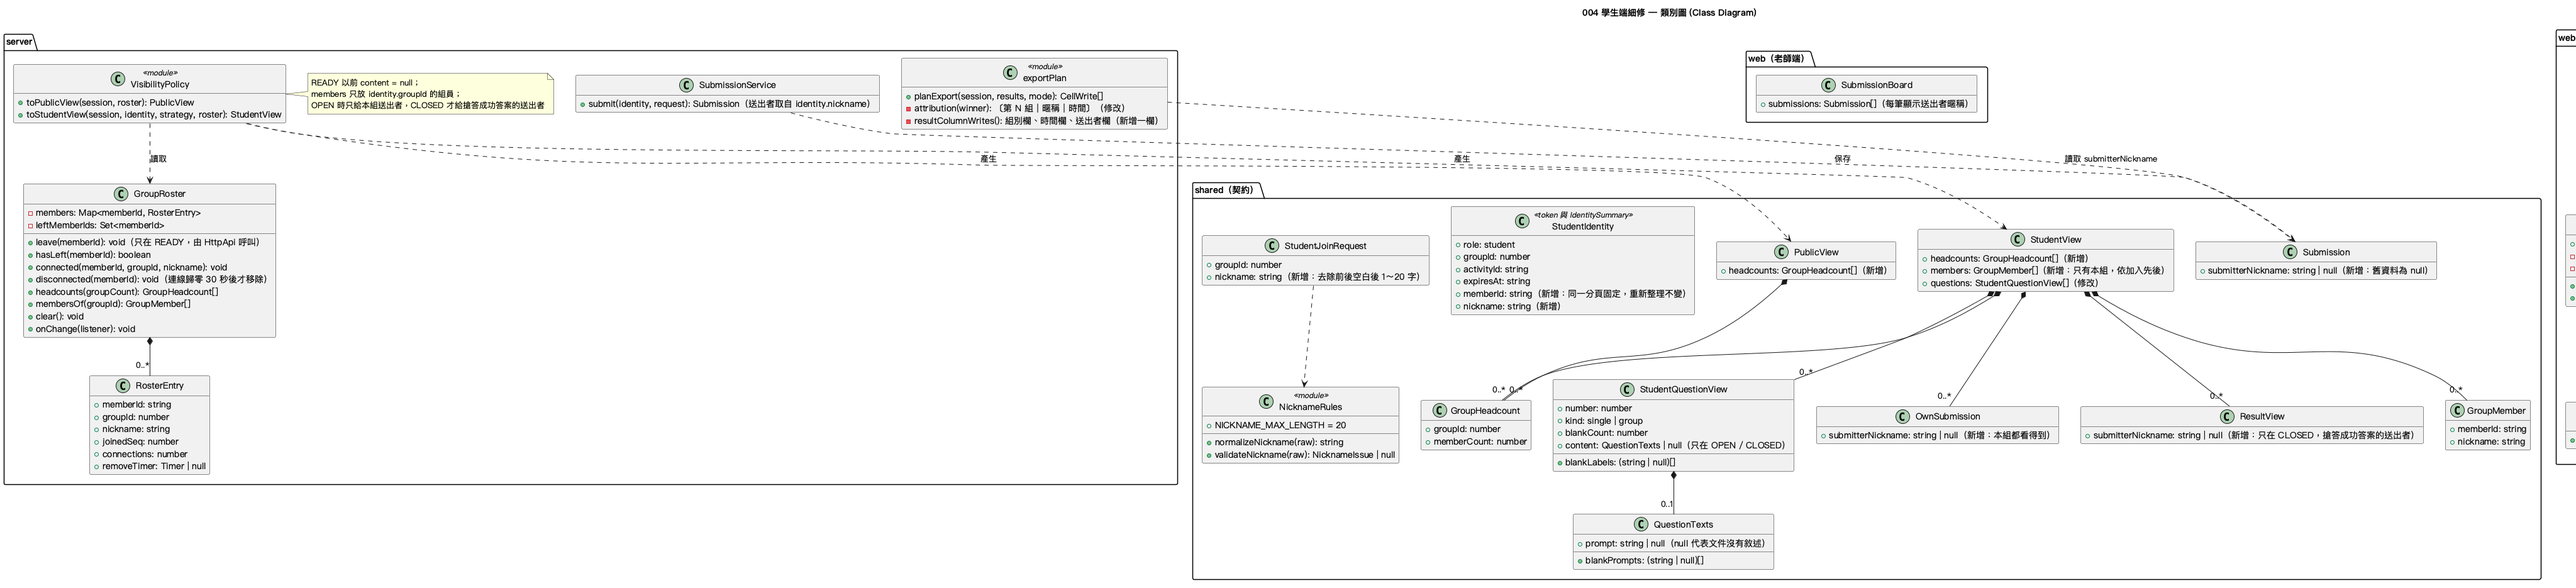
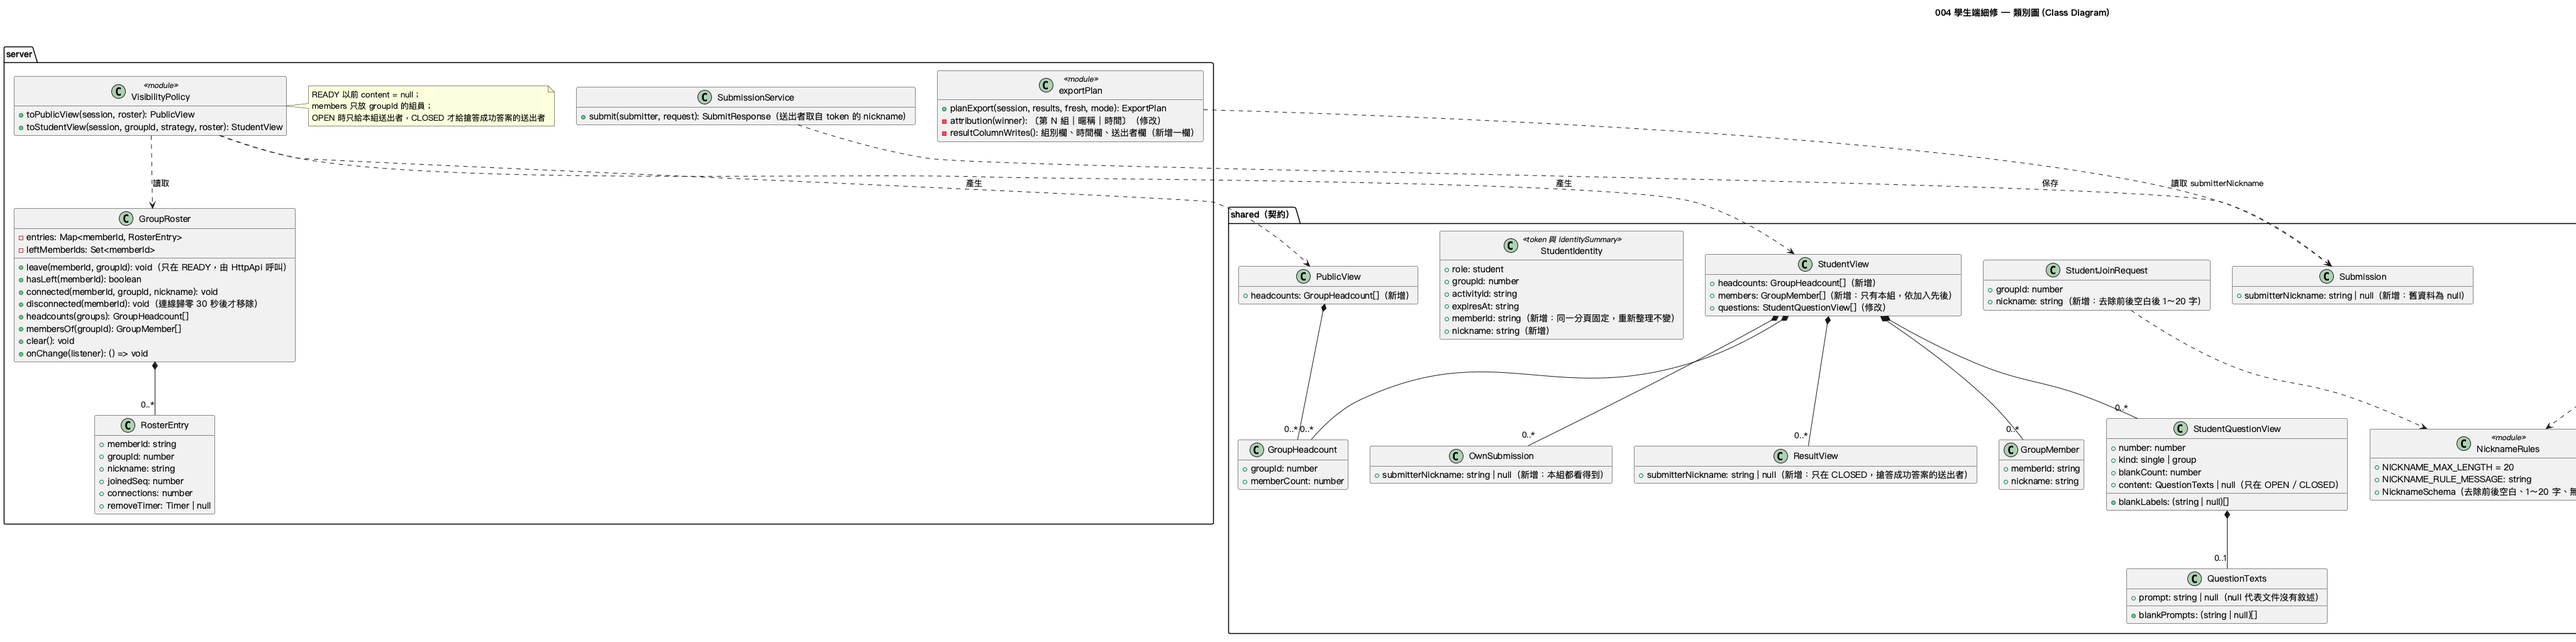
docs(004): verify diagrams, add manual checklist, fix restart version
Polish: README covers nicknames, headcounts, prompts and submitters; the
004 diagrams match the code (PNG regenerated); diagram-verification.md and
the manual verification checklist are added.

Also fix the student and teacher pages ignoring state after a server
restart: the server version restarts at 0, so the client now resets its
version on every (re)connect, since each connection begins with a full
state. The submitted badge moves below the question when prompts show.

diff --git a/apps/web/src/pages/student/QuestionAnswerForm.tsx b/apps/web/src/pages/student/QuestionAnswerForm.tsx
@@ -165,11 +165,15 @@ export function QuestionAnswerForm({
     // 同組成員都看得到送出者（004 FR-024）；本分頁剛送出、推播尚未到達時以自己的暱稱顯示
     const submitter = submitted === null ? identity.nickname : submitted.submitterNickname;
     const byIndex = new Map(answers.map((a) => [a.blankIndex, a.text]));
+    const badge = (
+      <p className="inline-block rounded-full bg-green-100 px-3 py-1 text-sm font-semibold text-green-800">
+        {submitter === null ? '已送出' : `已送出（${submitter}）`}
+      </p>
+    );
     return (
       <div className="space-y-2">
-        <p className="inline-block rounded-full bg-green-100 px-3 py-1 text-sm font-semibold text-green-800">
-          {submitter === null ? '已送出' : `已送出（${submitter}）`}
-        </p>
+        {/* 有題目敘述時題號在 QuestionContent 內，標籤放在題目與答案之後；否則沿用 003 放在最上方 */}
+        {showLabels && badge}
         <WithContent
           question={question}
           renderBlank={(index) => {
@@ -184,6 +188,7 @@ export function QuestionAnswerForm({
             );
           }}
         />
+        {!showLabels && badge}
         {message !== null && <p className="text-sm text-slate-600">{message}</p>}
       </div>
     );

diff --git a/apps/web/tests/useSessionState.test.tsx b/apps/web/tests/useSessionState.test.tsx
@@ -63,3 +63,25 @@ describe('useSessionState 斷線重連（003 FR-010、US1 情境 4）', () => {
     expect(socket.connectCalls).toBe(0);
   });
 });
+
+describe('useSessionState 版本（004 FR-013）', () => {
+  it('伺服器重新啟動後 version 從 0 重新計算，重新連線後的狀態仍會套用', () => {
+    const { result } = renderHook(() => useSessionState('token-2', vi.fn()));
+    const socket = currentSocket();
+    socket.serverConnect();
+    socket.sendState(studentView({ status: 'OPEN' }), 5);
+    socket.serverDisconnect('io server disconnect');
+    socket.serverConnect();
+    socket.sendState(studentView({ status: 'CLOSED', results: [] }), 0);
+    expect(result.current.view?.status).toBe('CLOSED');
+  });
+
+  it('同一條連線上比目前更舊的版本仍被忽略', () => {
+    const { result } = renderHook(() => useSessionState('token-2', vi.fn()));
+    const socket = currentSocket();
+    socket.serverConnect();
+    socket.sendState(studentView({ status: 'OPEN' }), 5);
+    socket.sendState(studentView({ status: 'READY' }), 4);
+    expect(result.current.view?.status).toBe('OPEN');
+  });
+});

diff --git a/apps/web/src/hooks/useSessionState.ts b/apps/web/src/hooks/useSessionState.ts
@@ -33,6 +33,9 @@ export function useSessionState(
     // 這條連線是否已不再使用：元件卸載、或活動換新（之後由新的身分建立新連線）
     let retired = false;
     socket.on('connect', () => {
+      // 伺服器每次接受連線都會先送一份完整狀態；伺服器重新啟動後 version 從 0 重新計算，
+      // 因此每次（重新）連線都重設版本，避免重啟後的狀態被當成舊版本而忽略（004 FR-013）
+      versionRef.current = -1;
       setState((s) => ({ ...s, connected: true }));
     });
     socket.on('disconnect', (reason) => {

diff --git a/specs/004-student-side-refinements/diagram-verification.md b/specs/004-student-side-refinements/diagram-verification.md
@@ -1,0 +1,64 @@
+# 圖表一致性驗證（constitution 原則 VI）
+
+**Feature**: `004-student-side-refinements` | **Date**: 2026-11-25 | **Task**: T051
+
+依 [plan.md](./plan.md)「圖表對應」逐一核對三張 004 圖表的元件、類別、欄位、方法與互動順序是否都存在於原始碼且
+名稱一致。
+
+## 實作過程中更新的圖表
+
+| 圖表 | 更新內容 | 原因 |
+|------|----------|------|
+| 類別圖 | `NicknameRules` 改為 `NICKNAME_MAX_LENGTH`、`NICKNAME_RULE_MESSAGE`、`NicknameSchema` | 規則以單一 Zod schema 表達（去除前後空白＋驗證），前後端共用，不另外拆成兩個函式（原則 V） |
+| 類別圖 | `GroupRoster`：欄位名 `entries`；`leave(memberId, groupId)`；`headcounts(groups)`；`onChange` 回傳取消訂閱函式 | 組員已在緩衝到期後被移除時仍要能記為已離開並推播，因此帶入 token 的組別；人數依匯入的組別清單產生 |
+| 類別圖 | `VisibilityPolicy.toStudentView(session, groupId, strategy, roster)` | 沿用 003 以組別產生學生檢視，名冊另外傳入 |
+| 類別圖 | `SubmissionService.submit(submitter, request): SubmitResponse` | 送出者為 token 解析出的組別、memberId 與暱稱；回應格式沿用 001 |
+| 類別圖 | `planExport(session, results, fresh, mode): ExportPlan` | 沿用 002 的簽章，只加送出者欄與附註行暱稱 |
+| 類別圖 | `StudentPage` 加 `editingNickname`、`leaveError`；`NicknamePanel` 改為 `value`、`error`、`onCancel?`（移除 `shuffle()`）；`randomNickname(exclude?)`；`QuestionContent` 加 `blankCount`、`titleAs?`、`hideTitle?`；新增 `StudentResultBoard ..> QuestionContent` | 「換一個」直接在元件內呼叫 `randomNickname`；修改暱稱可取消；結果畫面也共用題目版面 |
+| 類別圖、組件圖 | `NicknameStore` 由 `StudentPage` 使用（不是 `NicknamePanel`） | 暱稱頁只回傳確認的暱稱，保存與讀取由頁面負責 |
+| 組件圖 | `randomNickname` 標示「faker 英文語系」；暱稱規則改為 `NicknameSchema` | analyze 後改用持續維護的 `@faker-js/faker`（research R1） |
+| 時序圖 | 加入組別時，名冊推播先送給其他分頁，自己的完整 StudentView 最後送出；`leave(memberId, groupId)`；暱稱驗證改為 `NicknameSchema` | 連線的分頁先加入名冊、再進組別 room，只收到一份包含自己的完整狀態，避免重複推播 |
+
+更新後已執行 `plantuml "./diagrams/004-*.puml"` 重新產生 PNG。
+
+## 元件與類別對照
+
+| 圖表元素 | 圖表 | 原始碼位置 | 一致 | 說明 |
+|----------|------|------------|------|------|
+| `StudentJoinRequest`（`groupId`、`nickname`） | 類別圖、組件圖、時序圖 | `packages/shared/src/api.ts` | ✔ | strict；暱稱以 `NicknameSchema` 正規化 |
+| `StudentIdentity`（`memberId`、`nickname`） | 類別圖、時序圖 | `packages/shared/src/api.ts`（`IdentitySummary`）、`apps/server/src/auth/tokens.ts`（`TabIdentitySchema`） | ✔ | 缺新欄位的舊 token 驗證失敗 |
+| `GroupHeadcount`、`GroupMember`、`QuestionTexts`、`StudentQuestionView` | 類別圖、組件圖 | `packages/shared/src/views.ts` | ✔ | `blankPrompts` 長度以 `refine` 檢查 |
+| `Submission`／`OwnSubmission`／`ResultView`.`submitterNickname` | 類別圖、組件圖 | `packages/shared/src/{domain,views}.ts` | ✔ | `Submission` 預設 `null`（舊資料） |
+| `PublicView.headcounts`、`StudentView.{headcounts, members, questions}` | 類別圖 | `packages/shared/src/views.ts` | ✔ | |
+| `NicknameRules` | 類別圖、組件圖 | `packages/shared/src/nickname.ts` | ✔ | |
+| `GroupRoster`、`RosterEntry` | 類別圖、組件圖、時序圖 | `apps/server/src/domain/roster/groupRoster.ts` | ✔ | 計時器以建構參數注入；`hasLeft`、`clear`、`membersOf` 同名 |
+| `VisibilityPolicy`（`toPublicView`、`toStudentView`） | 類別圖、組件圖、時序圖 | `apps/server/src/domain/visibility/visibilityPolicy.ts` | ✔ | `content` 只在 OPEN／CLOSED |
+| `SubmissionService.submit` | 類別圖、組件圖、時序圖 | `apps/server/src/domain/submission/submissionService.ts` | ✔ | |
+| `exportPlan`（`attribution`、`resultColumnWrites`） | 類別圖、組件圖 | `apps/server/src/domain/export/exportPlan.ts`、`domain/guidedNotes/parser.ts` | ✔ | 表頭「搶答送出者」 |
+| `HttpApi`（加入、`POST /api/auth/student/leave`） | 組件圖、時序圖 | `apps/server/src/transport/http/routes/authRoutes.ts` | ✔ | 非 READY 回 409 `LEAVE_NOT_ALLOWED` |
+| `RealtimeGateway`（連線／斷線通知名冊、名冊推播、reset 清空） | 組件圖、時序圖 | `apps/server/src/transport/realtime/realtimeGateway.ts` | ✔ | 已離開組員的連線由伺服器中斷 |
+| `AuthService`／tokens（memberId、暱稱、已離開失效） | 時序圖 | `apps/server/src/auth/{authService,tokens}.ts` | ✔ | `isMemberLeft` 由 `app.ts` 注入 |
+| `StudentPage` | 類別圖、組件圖、時序圖 | `apps/web/src/pages/student/StudentPage.tsx` | ✔ | 由 `App.tsx` 延遲載入（research R1） |
+| `NicknamePanel`、`randomNickname`、`NicknameStore` | 類別圖、組件圖、時序圖 | `apps/web/src/pages/student/NicknamePanel.tsx`、`apps/web/src/student/{randomNickname,nicknameStore}.ts` | ✔ | |
+| `JoinGroupPanel`（`headcounts`、`nickname`、`onEditNickname`） | 類別圖、組件圖 | `apps/web/src/pages/student/JoinGroupPanel.tsx` | ✔ | |
+| `GroupMemberList` | 類別圖、組件圖 | `apps/web/src/pages/student/GroupMemberList.tsx` | ✔ | |
+| `PhaseBanner`（暱稱） | 組件圖 | `apps/web/src/pages/student/PhaseBanner.tsx` | ✔ | |
+| `AnswerSheet`／`QuestionAnswerForm`、`StudentResultBoard` | 類別圖、組件圖 | `apps/web/src/pages/student/{AnswerSheet,QuestionAnswerForm,StudentResultBoard}.tsx` | ✔ | 有敘述時以 `QuestionContent` 呈現 |
+| `QuestionContent` | 類別圖、組件圖、時序圖 | `apps/web/src/components/QuestionContent.tsx`（`QuestionPreview.tsx` 改用） | ✔ | |
+| `useStudentAuth`（`join(groupId, nickname)`、`leave(): Promise<void>`） | 類別圖、組件圖 | `apps/web/src/hooks/useStudentAuth.ts` | ✔ | |
+| `SubmissionBoard`（送出者） | 類別圖、組件圖 | `apps/web/src/pages/teacher/SubmissionBoard.tsx` | ✔ | |
+| `QuizSessionService`、`LocalSessionRepository`、`useSessionState`（灰色） | 組件圖 | 沿用，未改動 | ✔ | |
+
+## 互動順序（時序圖）
+
+| 段落 | 原始碼 | 一致 |
+|------|--------|------|
+| 取得暱稱：`load()` → 預填隨機名字 → 驗證 → `save()` | `StudentPage.tsx`、`NicknamePanel.tsx` | ✔ |
+| 加入組別：加入 API → 以 token 重連 → `connected()` → 推播其他分頁 → 送出自己的完整狀態 | `authRoutes.ts`、`realtimeGateway.ts` | ✔ |
+| 重新整理與斷線：`disconnected()` 開始緩衝、重連 `connected()` 取消移除 | `groupRoster.ts`、`realtimeGateway.ts` | ✔ |
+| 開啟搶答：學生檢視含 `content`，公開檢視不含 | `visibilityPolicy.ts` | ✔ |
+| 送出答案：送出者取自 token，同組與老師即時看到 | `submissionService.ts`、`submissionRoutes.ts`、`realtimeGateway.ts` | ✔ |
+| 離開組別：離開 API → `leave()` → 204 → 推播 → 前端清除身分 | `authRoutes.ts`、`useStudentAuth.ts` | ✔ |
+| 新的活動：`clear()`、`session:reset`、暱稱保留 | `realtimeGateway.ts`、`useStudentAuth.ts` | ✔ |
+
+結論：三張 004 圖表與原始碼一致。

diff --git a/specs/004-student-side-refinements/checklists/manual-verification.md b/specs/004-student-side-refinements/checklists/manual-verification.md
@@ -1,0 +1,40 @@
+# 人工驗證清單：學生端細修（暱稱、組別人數與題目敘述）
+
+**Feature**: `004-student-side-refinements` | **Task**: T054 | **對應**：[quickstart.md §4](../quickstart.md)
+
+## 使用方式
+
+- 依序操作，每完成並確認一步就勾起來（可自己勾，或請 Claude 代為勾選）。
+- 不需要記錄截圖、執行日期或執行者；有步驟不通過時，在該步下方補一行說明即可。
+- 需求對應見 quickstart.md §4。
+
+## 驗證步驟
+
+準備：伺服器啟動時會還原資料夾裡上一次的活動，所以要用一個新的暫存資料夾啟動，才會是「老師尚未匯入」：`DATA_DIR=<新資料夾的路徑> npm start`（資料夾不存在會自動建立；不要用專案的 `data/`）。整份驗證都用同一個資料夾；開老師分頁 T（登入）；學生分頁 A、B、C、D 都用「開新分頁」開啟（不要用「複製分頁」）。
+
+- [ ] 1. 分頁 A 從首頁按「學生端」 → 顯示暱稱頁，輸入欄已有一個英文短名字
+- [ ] 2. 分頁 A 連按「換一個」數次 → 每次都換成不同的英文名字
+- [ ] 3. 分頁 A 把暱稱清空後按確認 → 不前進，顯示暱稱規則；輸入 21 個字也一樣
+- [ ] 4. 分頁 A 改成「小明」並確認 → 進入選組畫面，顯示「暱稱：小明」與「老師尚未匯入題目，請稍候」
+- [ ] 5. 分頁 A 重新整理 → 暱稱仍是「小明」，不需重新輸入
+- [ ] 6. 分頁 B 直接打開 `/student` 網址 → 也先顯示暱稱頁；以預設名字確認
+- [ ] 7. 分頁 T 匯入「題組範例」副本（3 組） → 分頁 A、B 不需重新整理就出現三個組別，每組「已加入：0 人」
+- [ ] 8. 分頁 A 選第 1 組 → 分頁 B 的第 1 組在 1 秒內變成「已加入：1 人」；分頁 A 顯示「本組成員（1 人）」與「小明（你）」
+- [ ] 9. 分頁 B 選第 1 組；分頁 C 以暱稱「小明」加入第 1 組 → 三個分頁的成員名單都有 3 人，兩個「小明」都列出
+- [ ] 10. 分頁 D 確認暱稱後停在選組畫面 → 第 1 組「已加入：3 人」，看不到任何成員名字
+- [ ] 11. 分頁 A 連續重新整理 3 次 → 其他分頁的人數一直是 3，沒有短暫變少或變多
+- [ ] 12. 分頁 C 在組內時畫面沒有「修改暱稱」；分頁 C 按「離開組別」 → 第 1 組在 1 秒內變成 2 人；分頁 C 回到選組畫面，暱稱保留，按「修改暱稱」改成「Leo」後加入第 2 組
+- [ ] 13. 關閉分頁 B → 30 秒內第 1 組人數與名冊移除分頁 B 的暱稱
+- [ ] 14. 「待開始」時分頁 A 的題目只有題號與子題標記，沒有題目敘述
+- [ ] 15. 分頁 T 開啟搶答 → 分頁 A、C 的每一題都顯示題目敘述，題組每個子題旁有子題敘述與輸入欄；文字與分頁 T 的題目預覽相同；分頁 D（未選組）看不到敘述
+- [ ] 16. 分頁 A 送出第 1 題 → 同組其他分頁在 1 秒內顯示第 1 題「已送出（小明）」；分頁 C（第 2 組）看不到；分頁 T 的送出列表顯示「第 1 組・小明」
+- [ ] 17. 分頁 C 也送出第 1 題 → 分頁 T 的送出列表顯示「第 2 組・Leo」；分頁 A 看不到 Leo
+- [ ] 18. 搶答進行中，分頁 A、C 都沒有「離開組別」
+- [ ] 19. 分頁 T 結束搶答 → 所有學生分頁的結果都顯示題目敘述；第 1 題搶答成功答案旁顯示「第 1 組・小明」；分頁 C 的第 1 題同時顯示「本組（Leo）」與「第 1 組・小明」；成員名單仍顯示
+- [ ] 20. 分頁 T 以「答案＋格內附註行」匯出 → 文件第 1 題的附註行為「〔第 1 組｜小明｜時間〕」
+- [ ] 21. 分頁 T 以「答案＋組別時間欄」匯出 → 表頭多一欄「搶答送出者」，第 1 題該欄為「小明」；再匯出一次內容相同、沒有多出新欄
+- [ ] 22. 以「單題範例」副本重複步驟 7～21 的主要流程（匯入、加入、作答、結束、匯出） → 結果一致
+- [ ] 23. 關閉伺服器（Ctrl+C）後用同一個 `DATA_DIR` 再 `npm start`，不重新整理任何分頁 → 學生分頁自動重連，成員名單與人數在幾秒內恢復，暱稱不需重新輸入
+- [ ] 24. 分頁 T 重新匯入（確認放棄結果） → 所有學生分頁回到選組畫面並說明原因，暱稱保留，各組「已加入：0 人」
+- [ ] 25. 分頁 T 開 `/student` → 顯示老師身分提示，沒有暱稱頁與作答功能
+- [ ] 26. 依 [003 manual-verification.md](../../003-student-quiz-participation/checklists/manual-verification.md) 重跑與本次改動相關的步驟（作答、送出、結果），全部通過

diff --git a/README.md b/README.md
@@ -11,7 +11,9 @@ npm start
 ```
 
 開啟 <http://localhost:3000/teacher> 進入老師端（密碼見 `.env` 的 `TEACHER_PASSWORD`）；
-學生用另外的分頁開啟 <http://localhost:3000/student> 選擇組別加入（不需密碼，每個分頁的身分各自獨立）。
+學生用另外的分頁開啟 <http://localhost:3000/student>，先確認暱稱（預填一個隨機的英文短名字，可換一個或自行修改，
+可以和別人重複），再選擇組別加入（不需密碼，每個分頁的身分與暱稱各自獨立）。選組時看得到各組已加入人數；
+加入後畫面顯示本組成員，搶答開始後每一題都顯示題目敘述，同組同學送出的題目會標示送出者。
 
 第一次使用前請先完成下方「環境需求」與「設定」。
 
@@ -302,12 +304,13 @@ npm start
 - 需要一列同時有「題號」與「作答」的表頭（「題目」欄可有可無）
 - 題號可寫成 `1`、`1.`、`1、`、`Q1`、`第1題`，或全形數字
 - 同一題號涵蓋多個作答格即為題組；作答格的「（1）」「（2）」標記可有可無，有寫就必須從（1）連號
-- 「題目」欄的敘述會用於老師端的題目預覽（沒有「題目」欄也能匯入，預覽會顯示「文件未提供題目敘述」）
+- 「題目」欄的敘述會用於老師端的題目預覽，搶答開始後也會顯示在學生端（沒有「題目」欄也能匯入，畫面會顯示
+  「文件未提供題目敘述」）
 - 匯出時答案寫入原本的作答格，題組保留子題標記（例如「（1）CPU」）。匯出可選三種模式，寫入位置見
   [002 contracts/guided-notes-format.md](specs/002-teacher-dashboard-enhancements/contracts/guided-notes-format.md)：
   - 只有答案：只寫作答格，其他儲存格不會被改動
-  - 答案＋組別時間欄：另在表頭列最右側新增「搶答組別」「提交時間」兩欄
-  - 答案＋格內附註行：答案下方另起一行，以灰色小字記錄組別與提交時間
+  - 答案＋組別時間欄：另在表頭列最右側新增「搶答組別」「提交時間」「搶答送出者」三欄（已有的欄沿用）
+  - 答案＋格內附註行：答案下方另起一行，以灰色小字記錄組別、送出者暱稱與提交時間（例如「〔第 1 組｜Milo｜時間〕」）
 
 ## 開發與測試
 
@@ -321,8 +324,9 @@ npm start
 | `npm run simulate -- --group 1 --question 1 --answers "CPU"` | 模擬學生送出（自動化與壓力測試用；學生畫面見 `/student`） |
 
 人工驗證步驟見 [001 quickstart.md §4](specs/001-teacher-quiz-session/quickstart.md)、
-[002 quickstart.md §4](specs/002-teacher-dashboard-enhancements/quickstart.md) 與
-[003 quickstart.md §4](specs/003-student-quiz-participation/quickstart.md)。
+[002 quickstart.md §4](specs/002-teacher-dashboard-enhancements/quickstart.md)、
+[003 quickstart.md §4](specs/003-student-quiz-participation/quickstart.md) 與
+[004 quickstart.md §4](specs/004-student-side-refinements/quickstart.md)。
 
 ## 專案結構
 
@@ -342,3 +346,4 @@ diagrams/          PlantUML 圖表（.puml 與 .png）
 | 001 | 使用者角色與老師端搶答活動管理（匯入、開啟／結束、檢視、匯出） | 已實作 |
 | 002 | 老師端介面優化（題目預覽、搶答計時、提交時間提示、匯出模式） | 已實作 |
 | 003 | 學生端畫面（`/student`：加入組別、作答與送出、檢視結果） | 已實作 |
+| 004 | 學生端細修（暱稱、各組人數與本組成員、學生端題目敘述、送出者暱稱與匯出） | 已實作 |

diff --git a/specs/004-student-side-refinements/tasks.md b/specs/004-student-side-refinements/tasks.md
@@ -174,10 +174,10 @@ US4（送出者，P2）。
 
 ## Phase 7: Polish & Cross-Cutting Concerns
 
-- [ ] T050 [P] 更新 `README.md`：子功能表加入 004；學生端說明加入暱稱頁、各組人數與成員、題目敘述、送出者；匯出說明加入送出者
-- [ ] T051 [P] 新增 `specs/004-student-side-refinements/diagram-verification.md`：依 plan.md「圖表對應」逐項核對三張 004 圖表的元件、類別、欄位、方法與互動順序是否都存在於原始碼且名稱一致；有差異時先更新圖表並執行 `plantuml "./diagrams/*.puml"`（原則 VI）
-- [ ] T052 新增 `specs/004-student-side-refinements/checklists/manual-verification.md`：把 quickstart.md §4 的 26 步轉成可勾選的步驟清單（只要步驟與勾選框，不需截圖、日期或執行者），開頭附上用新的暫存 `DATA_DIR` 啟動的準備方式
-- [ ] T053 最終品質關卡：`npm run typecheck`、`npm run lint`、`npm run format:check`、`npm test`、`npm run build` 全部通過；以 3000 以外的埠和暫存 `DATA_DIR` 啟動，依 quickstart.md §4 走一次主要流程（暱稱 → 加入 → 人數 → 開啟搶答看到敘述 → 送出看到送出者 → 結束 → 匯出前的結果畫面），回報結果
+- [X] T050 [P] 更新 `README.md`：子功能表加入 004；學生端說明加入暱稱頁、各組人數與成員、題目敘述、送出者；匯出說明加入送出者
+- [X] T051 [P] 新增 `specs/004-student-side-refinements/diagram-verification.md`：依 plan.md「圖表對應」逐項核對三張 004 圖表的元件、類別、欄位、方法與互動順序是否都存在於原始碼且名稱一致；有差異時先更新圖表並執行 `plantuml "./diagrams/*.puml"`（原則 VI）
+- [X] T052 新增 `specs/004-student-side-refinements/checklists/manual-verification.md`：把 quickstart.md §4 的 26 步轉成可勾選的步驟清單（只要步驟與勾選框，不需截圖、日期或執行者），開頭附上用新的暫存 `DATA_DIR` 啟動的準備方式
+- [X] T053 最終品質關卡：`npm run typecheck`、`npm run lint`、`npm run format:check`、`npm test`、`npm run build` 全部通過；以 3000 以外的埠和暫存 `DATA_DIR` 啟動，依 quickstart.md §4 走一次主要流程（暱稱 → 加入 → 人數 → 開啟搶答看到敘述 → 送出看到送出者 → 結束 → 匯出前的結果畫面），回報結果
 - [ ] T054 人工驗證：使用者依 `checklists/manual-verification.md` 逐步操作並勾選；全部通過後勾選本任務
 
 ---
